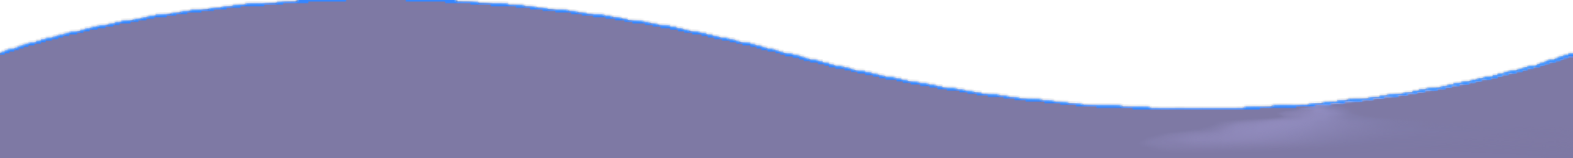
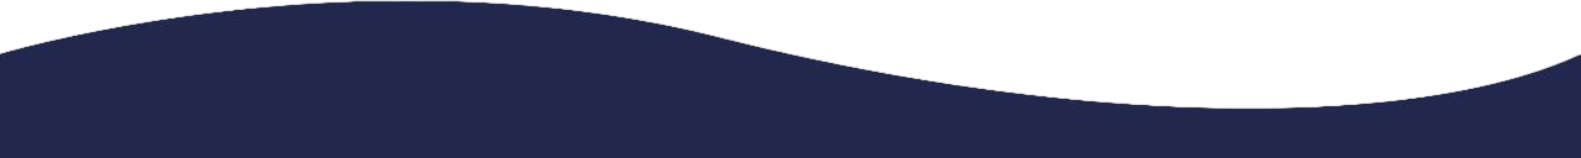
Modified Style of home page

diff --git a/src/pages/Home/Home.tsx b/src/pages/Home/Home.tsx
@@ -51,14 +51,18 @@ const Home: React.FC = () => {
       {/* Header Section */}
       <section className="w-full bg-[#d2d0dc]">
         <AwesomeSlider
-          className="w-full h-[75vh] bg-none"
+          className="w-full lg:h-[75vh] bg-none md:h-[50vh] sm:h-[40vh]"
           animation="cubeAnimation"
           bullets={true}
           infinite={true}
         >
           <div 
-            className="h-full w-[80%] bg-cover"
-            style={{ backgroundImage: `url(${Images.homeTitle})` }}
+            className="h-full w-[80%] md:w-[80%] sm:w-full"
+            style={{ 
+              backgroundImage: `url(${Images.homeTitle})`,
+              backgroundSize: 'cover',
+              backgroundPosition: 'center',  
+            }}
           >
             <HomeTitleCard 
               title="Electronic Instrumentation Suite"
@@ -69,7 +73,11 @@ const Home: React.FC = () => {
           </div>
           <div 
             className="h-full w-[80%] bg-cover"
-            style={{ backgroundImage: `url(${Images.homeTitle})` }}
+            style={{ 
+              backgroundImage: `url(${Images.homeTitle})`,
+              backgroundSize: 'cover',
+              backgroundPosition: 'center',  
+            }}
           >
             <HomeTitleCard 
               title="FLX CS100"
@@ -80,7 +88,11 @@ const Home: React.FC = () => {
           </div>
           <div 
             className="h-full w-[80%] bg-cover"
-            style={{ backgroundImage: `url(${Images.homeTitle})` }}
+            style={{ 
+              backgroundImage: `url(${Images.homeTitle})`,
+              backgroundSize: 'cover',
+              backgroundPosition: 'center',  
+            }}
           >
             <HomeTitleCard 
               title="Process View"
@@ -91,7 +103,11 @@ const Home: React.FC = () => {
           </div>
           <div 
             className="h-full w-[80%] bg-cover"
-            style={{ backgroundImage: `url(${Images.homeTitle})` }}
+            style={{ 
+              backgroundImage: `url(${Images.homeTitle})`,
+              backgroundSize: 'cover',
+              backgroundPosition: 'center',  
+            }}
           >
             <HomeTitleCard 
               title="FLX MC20"
@@ -139,7 +155,7 @@ const Home: React.FC = () => {
       {/* Latest Products */}
       <section className="flex flex-col items-center justify-center mb-[80px]">
         <div className="mb-5">
-          <h1 className="text-4xl font-bold">Our Latest Inovations</h1>
+          <h1 className="text-xl font-bold md:text-4xl">Our Latest Inovations</h1>
         </div>
         <AwesomeSlider
           className="w-full h-[75vh] mt-1"
@@ -150,7 +166,11 @@ const Home: React.FC = () => {
         >
           <div
             className="h-full w-[80%] bg-cover"
-            style={{ backgroundImage: `url(${Images.inovationBg})` }}
+            style={{ 
+              backgroundImage: `url(${Images.inovationBg})`,  
+              backgroundSize: 'cover',
+              backgroundPosition: 'center', 
+            }}
           >
             <LatestInovationCard
              src={Images.latest1}
@@ -161,7 +181,11 @@ const Home: React.FC = () => {
           </div>
           <div
             className="h-full w-[80%] bg-cover"
-            style={{ backgroundImage: `url(${Images.inovationBg})` }}
+            style={{ 
+              backgroundImage: `url(${Images.inovationBg})`,
+              backgroundSize: 'cover',
+              backgroundPosition: 'center',  
+            }}
           >
             <LatestInovationCard
              src={Images.latest2}
@@ -172,7 +196,11 @@ const Home: React.FC = () => {
           </div>
           <div
             className="h-full bg-center bg-cover w-fit"
-            style={{ backgroundImage: `url(${Images.inovationBg})` }}
+            style={{ 
+              backgroundImage: `url(${Images.inovationBg})`,
+              backgroundSize: 'cover',
+              backgroundPosition: 'center', 
+            }}
           >
             <LatestInovationCard
              src={Images.latest3}
@@ -187,7 +215,7 @@ const Home: React.FC = () => {
       {/* Our servises */}
       <section className="flex flex-col items-center justify-center">
         <div className="mb-5">
-          <h1 className="text-4xl font-bold">Our Services</h1>
+          <h1 className="text-xl font-bold md:text-4xl">Our Services</h1>
         </div>
         <AwesomeSlider
           className="w-full h-[75vh] mt-1"
@@ -196,7 +224,14 @@ const Home: React.FC = () => {
           organicArrows={false}
           infinite={true}
         >
-          <div className="flex justify-center gap-5">
+          <div 
+            className="flex justify-center gap-5"
+            style={{ 
+              backgroundImage: `url(${Images.servicesBg})`,
+              backgroundSize: 'cover',
+              backgroundPosition: 'center',  
+            }}
+          >
             <ServiceCard 
               src={Images.service1}
               alt="Service 1"
@@ -219,7 +254,14 @@ const Home: React.FC = () => {
               Modi architecto iste asperiores porro enim explicabo harum sunt reiciendis necessitatibus maxime."
             />
           </div>
-          <div className="flex justify-center gap-5">
+          <div 
+            className="flex justify-center gap-5"
+            style={{ 
+              backgroundImage: `url(${Images.servicesBg})`,
+              backgroundSize: 'cover',
+              backgroundPosition: 'center',  
+            }}
+          >
             <ServiceCard 
               src={Images.service4}
               alt="Service 4"
@@ -242,7 +284,14 @@ const Home: React.FC = () => {
               Modi architecto iste asperiores porro enim explicabo harum sunt reiciendis necessitatibus maxime."
             />
           </div>
-          <div className="flex justify-center gap-5">
+          <div 
+            className="flex justify-center gap-5"
+            style={{ 
+              backgroundImage: `url(${Images.servicesBg})`,
+              backgroundSize: 'cover',
+              backgroundPosition: 'center',  
+            }}
+          >
             <ServiceCard 
               src={Images.service7}
               alt="Service 7"
@@ -262,22 +311,24 @@ const Home: React.FC = () => {
       </section>
 
       {/* Our Technologies */}
+      <div className="flex flex-col items-center justify-center mt-[80px]">
+        <div className="mb-5">
+          <h1 className="text-xl font-bold md:text-4xl">Our Technologies</h1>
+        </div>
+      </div>
       <motion.section
-        className="flex flex-col items-center justify-center mt-[80px] mb-24"
+        className="flex flex-col items-center justify-center mb-24"
         ref={ref}
         initial="hidden"
         animate={inView ? 'visible' : 'hidden'}
         variants={sectionVariants}
       >
-        <div className="mb-5">
-          <h1 className="text-4xl font-bold">Our Technologies</h1>
-        </div>
-        <div className="grid items-center justify-center grid-cols-4 gap-5 px-10 mb-[100px] mt-5">
-          <div className="col-span-2">
+        <div className="grid items-center justify-center grid-cols-1 md:grid-cols-2 md:gap-5 gap-0 px-5 md:px-10 mb-24 mt-5 w-[90%] md:w-[65%]">
+          <div className="col-span-1 md:col-span-1">
             {["Research and development", "Electronic fabrications", "Firmware development"].map((text, index) => (
               <motion.p
                 key={text}
-                className="px-10 py-3 mb-2 transition-colors duration-500 bg-orange-500 rounded-lg hover:bg-orange-400 hover:text-slate-900 text-slate-50"
+                className="md:px-10 px-2 text-center py-3 md:text-lg text-[13px] mb-2 transition-colors duration-500 bg-orange-500 rounded-lg hover:bg-orange-400 hover:text-slate-900 text-slate-50"
                 custom={index}
                 variants={paragraphVariants}
               >
@@ -285,11 +336,11 @@ const Home: React.FC = () => {
               </motion.p>
             ))}
           </div>
-          <div className="col-span-2">
-            {["Software developments", "Electro-mechanical system developments", "In house manufacturing"].map((text, index) => (
+          <div className="col-span-1 md:col-span-1">
+            {["Software developments", "In house manufacturing" ,"Electro-mechanical system developments"].map((text, index) => (
               <motion.p
                 key={text}
-                className="px-10 py-3 mb-2 transition-colors duration-500 bg-orange-500 rounded-lg hover:bg-orange-400 hover:text-slate-900 text-slate-50"
+                className="md:px-10 px-2 text-center py-3 md:text-lg text-[13px] mb-2 transition-colors duration-500 bg-orange-500 rounded-lg hover:bg-orange-400 hover:text-slate-900 text-slate-50"
                 custom={index + 3}
                 variants={paragraphVariants}
               >

diff --git a/src/components/molecules/Footer/Footer.tsx b/src/components/molecules/Footer/Footer.tsx
@@ -9,7 +9,7 @@ const Footer:React.FC = () => {
         document.documentElement.style.setProperty('--image-Url', `url(${ImageUrl})`);
     }, [ImageUrl]);
   return (
-    <div className='mt-[20px] w-full relative min-h-32 py-[5px] px-[20px] bg-[#7E79A4]'>
+    <div className='mt-[20px] w-full relative min-h-32 py-[5px] px-[20px] bg-[#22274d]'>
         <footer>
             <div className='waves'>
                 <div className='wave' id='wave1'></div>
@@ -34,13 +34,13 @@ const Footer:React.FC = () => {
                     </svg>
                 </li>
             </ul>
-            <ul className='flex items-center justify-center gap-5 px-5 py-4 mt-2 text-slate-50'>
-                <li className='cursor-pointer font-semibold hover:text-[#27224d]'>Home</li>
-                <li className='cursor-pointer font-semibold hover:text-[#27224d]'>Control and Automation</li>
-                <li className='cursor-pointer font-semibold hover:text-[#27224d]'>Technology for Education</li>
-                <li className='cursor-pointer font-semibold hover:text-[#27224d]'>Research Instrumentation</li>
-                <li className='cursor-pointer font-semibold hover:text-[#27224d]'>About</li>
-                <li className='cursor-pointer font-semibold hover:text-[#27224d]'>Contact</li>
+            <ul className='items-center justify-center gap-5 px-5 py-4 mt-2 md:flex text-slate-50'>
+                <li className='cursor-pointer text-center font-semibold hover:text-[#d2d0dc] transition-transform duration-300 hover:scale-110'>Home</li>
+                <li className='cursor-pointer text-center font-semibold hover:text-[#d2d0dc] transition-transform duration-300 hover:scale-110'>Control and Automation</li>
+                <li className='cursor-pointer text-center font-semibold hover:text-[#d2d0dc] transition-transform duration-300 hover:scale-110'>Technology for Education</li>
+                <li className='cursor-pointer text-center font-semibold hover:text-[#d2d0dc] transition-transform duration-300 hover:scale-110'>Research Instrumentation</li>
+                <li className='cursor-pointer text-center font-semibold hover:text-[#d2d0dc] transition-transform duration-300 hover:scale-110'>About</li>
+                <li className='cursor-pointer text-center font-semibold hover:text-[#d2d0dc] transition-transform duration-300 hover:scale-110'>Contact</li>
             </ul>
             <span className='text-slate-50 font-semibold text-[16px] text-center flex justify-center mb-2'>&copy;2024 All Right  Reserved</span>
         </footer>

diff --git a/src/components/atoms/NavBar.tsx b/src/components/atoms/NavBar.tsx
@@ -11,17 +11,17 @@ const NavBar: React.FC<NavBarProps> = ({ list, showContactButton }) => {
   const [NavBarOpen, setNavBarOpen] = useState<boolean>(false);
 
   return (
-    <div className='w-full relative'>
+    <div className='relative w-full'>
       <nav className='flex flex-wrap items-center justify-between p-4'>
-        <div className='mobile-menu block md:hidden'>
+        <div className='block mobile-menu md:hidden'>
           <button onClick={() => setNavBarOpen(!NavBarOpen)} className=''>
             {NavBarOpen ? (
-              <svg xmlns="http://www.w3.org/2000/svg" fill="none" viewBox="0 0 24 24" strokeWidth="4" stroke="currentColor" className="w-6 h-6 fixed top-[2%] right-5 z-50 text-white">
+              <svg xmlns="http://www.w3.org/2000/svg" fill="none" viewBox="0 0 24 24" strokeWidth="4" stroke="currentColor" className="w-6 h-6 fixed top-[2%] right-5 z-50 text-slate-50">
                 <path strokeLinecap="round" strokeLinejoin="round" d="M6 18L18 6M6 6l12 12" />
               </svg>
             ) : (
-              <svg xmlns="http://www.w3.org/2000/svg" fill="none" viewBox="0 0 24 24" strokeWidth="4" stroke="currentColor" className="w-6 h-6 top-[5%] right-5  fixed z-50">
-                <path strokeLinecap="round" strokeLinejoin="round" d="M3.75 6.75h16.5M3.75 12h16.5m-16.5 5.25h16.5" />
+              <svg xmlns="http://www.w3.org/2000/svg" fill="none" viewBox="0 0 24 24" strokeWidth="4" stroke="currentColor" className="w-6 h-6 top-[5%] right-5  fixed z-50 text-[#27224d]">
+                <path fill='' strokeLinecap="round" strokeLinejoin="round" d="M3.75 6.75h16.5M3.75 12h16.5m-16.5 5.25h16.5" />
               </svg>
             )}
           </button>

diff --git a/src/components/molecules/HomeTitleCard/HomeTitleCard.tsx b/src/components/molecules/HomeTitleCard/HomeTitleCard.tsx
@@ -12,13 +12,13 @@ interface HomeTitleCardProp {
 
 const HomeTitleCard:React.FC<HomeTitleCardProp> = ({ title, description , src , alt , bgImage}) => {
   return (
-    <div className='flex w-full h-[50vh] items-center justify-around mt-[8%] p-[20px] bg-[#27224D] rounded-xl' style={{backgroundImage:`url(${bgImage})`}}>
-        <div className='text-white'>
-            <h1 className='text-4xl font-bold'>{title}</h1>
-            <p className='mt-2 text-lg'>{description}</p>
+    <div className='flex flex-col-reverse lg:flex-row w-full lg:h-[50vh] h-[35vh] lg:items-center lg:justify-around mt-[8%] p-[20px] bg-[#27224D] rounded-xl' style={{backgroundImage:`url(${bgImage})`}}>
+        <div className='text-white '>
+            <h1 className='font-bold md:text-left text-center text-[15px] md:text-lg lg:text-4xl'>{title}</h1>
+            <p className='lg:mt-2 sm:mt-1 text-left lg:text-lg md:text-[13px] text-[12px]'>{description}</p>
         </div>
         <img 
-            className='w-[250px] h-auto transition-transform duration-500 hover:scale-110'
+            className='lg:w-[300px] w-[60%] h-auto lg:m-0 m-auto transition-transform duration-500 hover:scale-110'
             src={src}
             alt={alt}
         />

diff --git a/src/components/molecules/ServicesCard/ServicesCard.tsx b/src/components/molecules/ServicesCard/ServicesCard.tsx
@@ -18,7 +18,7 @@ const ServiceCard: React.FC<ServiceCardProps> = ({ src, alt, title, description 
 
   return (
     <div className="
-        w-[30%] h-auto p-4 bg-[#d2d0dc] 
+        w-[30%] h-[45vh] p-4 bg-[#d2d0dc] 
         flex flex-col items-center justify-center 
         border rounded-lg shadow-lg overflow-hidden
         transition-transform duration-500 hover:scale-105
@@ -26,9 +26,9 @@ const ServiceCard: React.FC<ServiceCardProps> = ({ src, alt, title, description 
       <img 
         src={src} 
         alt={alt} 
-        className="w-[100px] h-auto" 
+        className="w-[150px] h-auto" 
       />
-      <h2 className="mt-4 text-[16px] font-bold text-center">{title}</h2>
+      <h2 className="mt-4 text-xl font-bold text-center">{title}</h2>
       <button 
         onClick={toggleDescription} 
         className="mt-2 text-blue-500 hover:text-blue-700 focus:outline-none"

diff --git a/src/components/molecules/Header/Header.tsx b/src/components/molecules/Header/Header.tsx
@@ -5,7 +5,7 @@ import { Images } from '../../../constant';
 
 const Header: React.FC = () => {
   return (
-    <div className='flex w-full h-[100px] px-[25px] py- justify-between items-center bg-[#d2d0dc]'>
+    <div className='flex w-full h-[100px] px-[25px] justify-between items-center bg-[#d2d0dc]'>
       <div className='flex items-center gap-10'>
         <Image 
           src={Images.logo} 

diff --git a/src/App.tsx b/src/App.tsx
@@ -11,8 +11,8 @@ import { Route, Routes } from 'react-router-dom'
 
 const App:React.FC = () => {
   return (
-    <div className='w-full h-full flex-col' >
-      <div className=''>
+    <div className='flex-col w-full h-full' >
+      <div className='sticky top-0 z-50'>
         <Header />
       </div>
       <main>

diff --git a/src/constant/Images.tsx b/src/constant/Images.tsx
@@ -3,6 +3,7 @@ const Images = {
     logo:"/Images/logo.png",
     homeTitle:"/Images/home-title.jpg",
     titleLoo:"/Images/title-logo.jpg",
+    servicesBg:"/Images/services-bg.jpg",
     device1:"/Images/device1.png",
     device2:"/Images/device2.png",
     device4:"/Images/device4.png",
